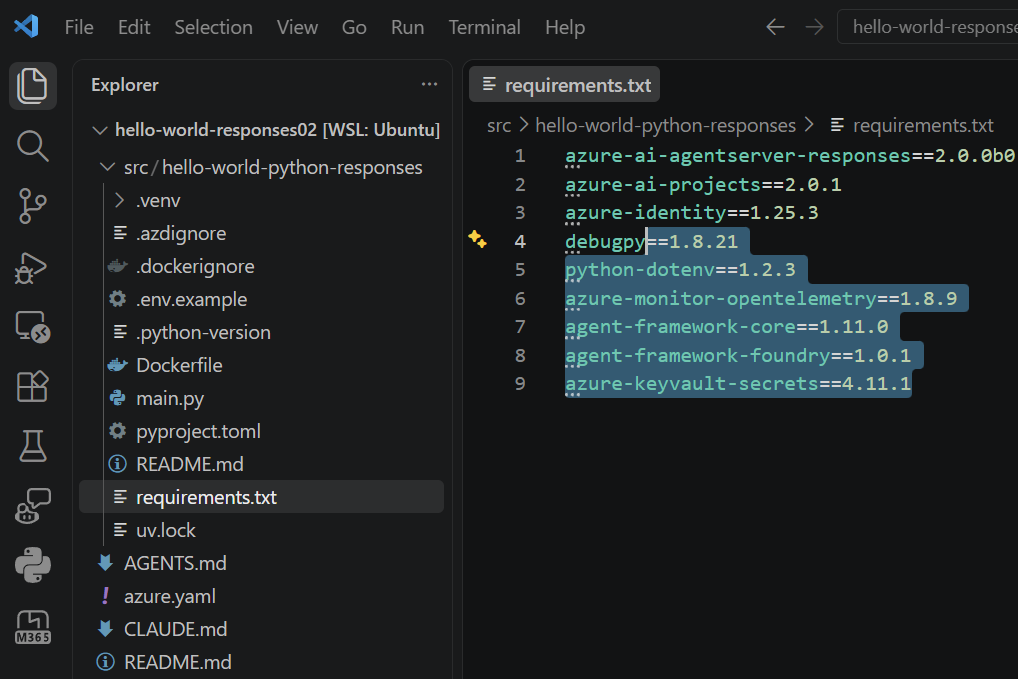
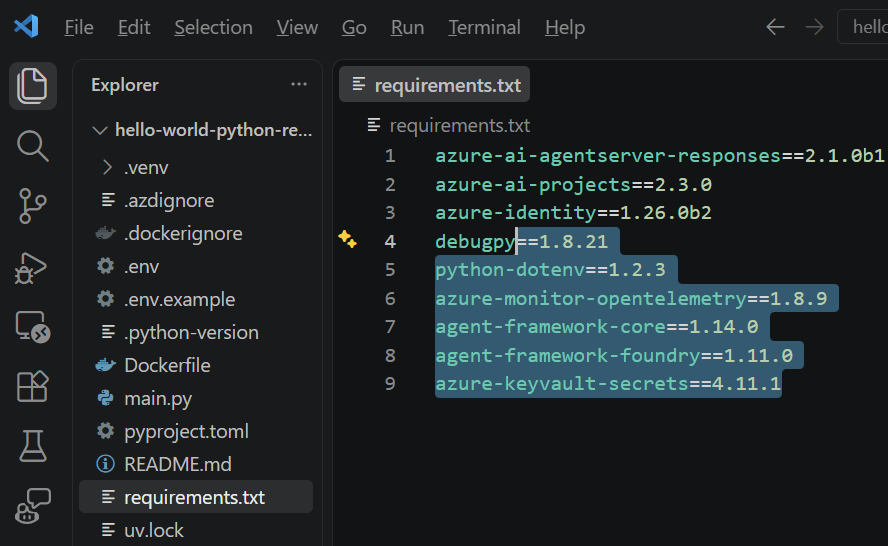
README.md small updates

diff --git a/agents/README.md b/agents/README.md
@@ -380,13 +380,12 @@ Now add the following libraries:
 ```text
 python-dotenv==1.2.3
 azure-monitor-opentelemetry==1.8.9
-agent-framework-core==1.11.0
-agent-framework-foundry==1.0.1
+agent-framework-core==1.14.0
+agent-framework-foundry==1.11.0
 azure-keyvault-secrets==4.11.1
 ```
 
 ![VS Code opened on the cloned project HELLO-WORLD-RESPONSES (WSL: Ubuntu). The Explorer shows src/hello-world-python-responses with .azdignore, .dockerignore, .env.example, Dockerfile, main.py, requirements.txt; requirements.txt is open with the added libraries highlighted.](images/08-cloned-project-requirements.png)
-
 
 ### 6.2 Create the environment and verify the imports
 
